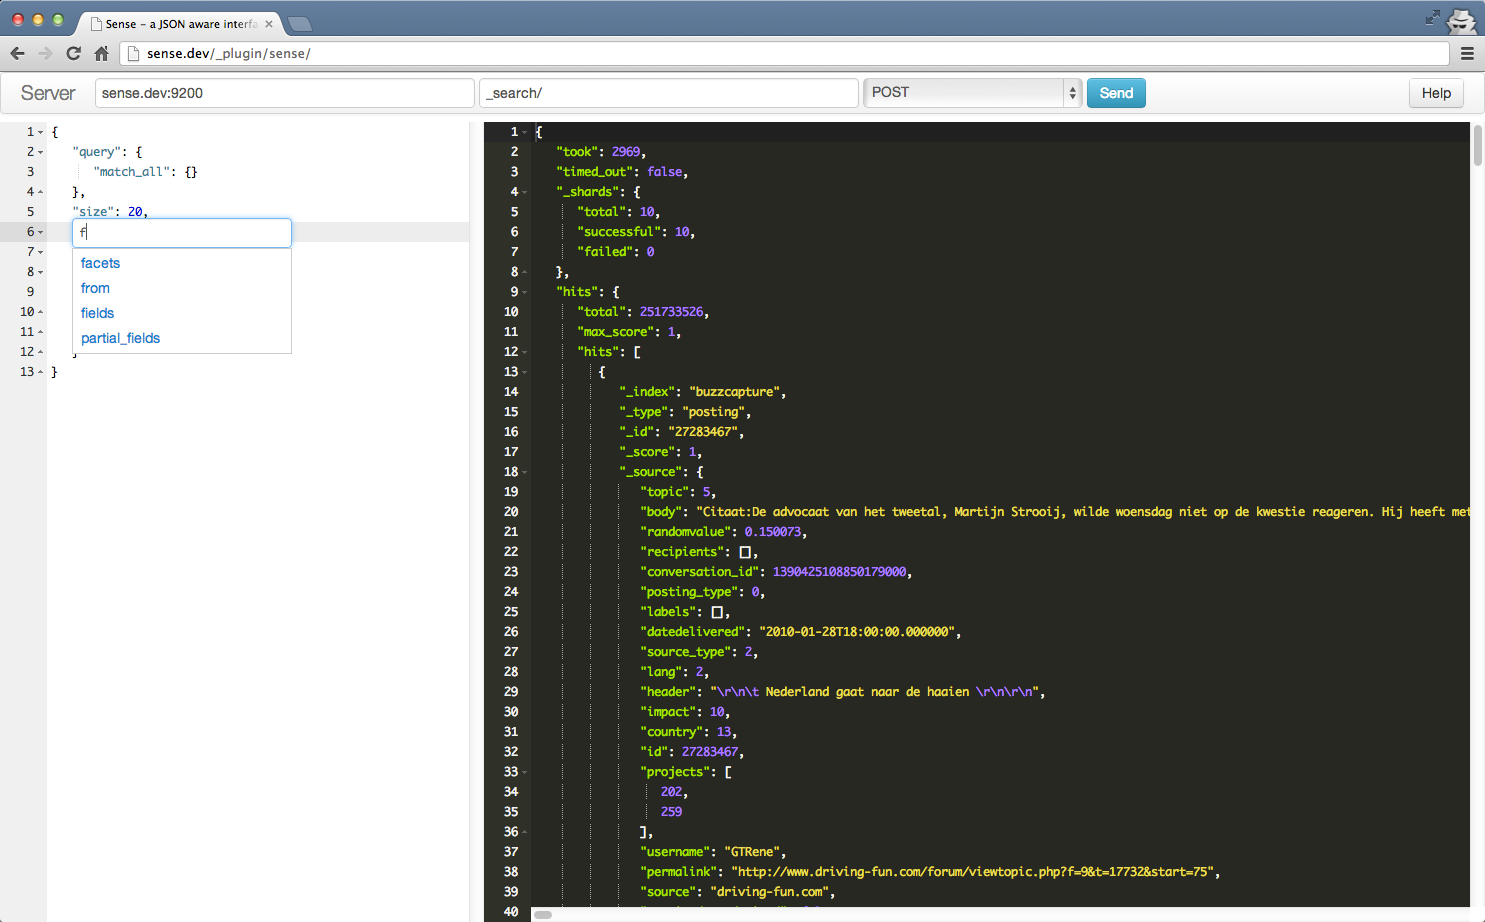
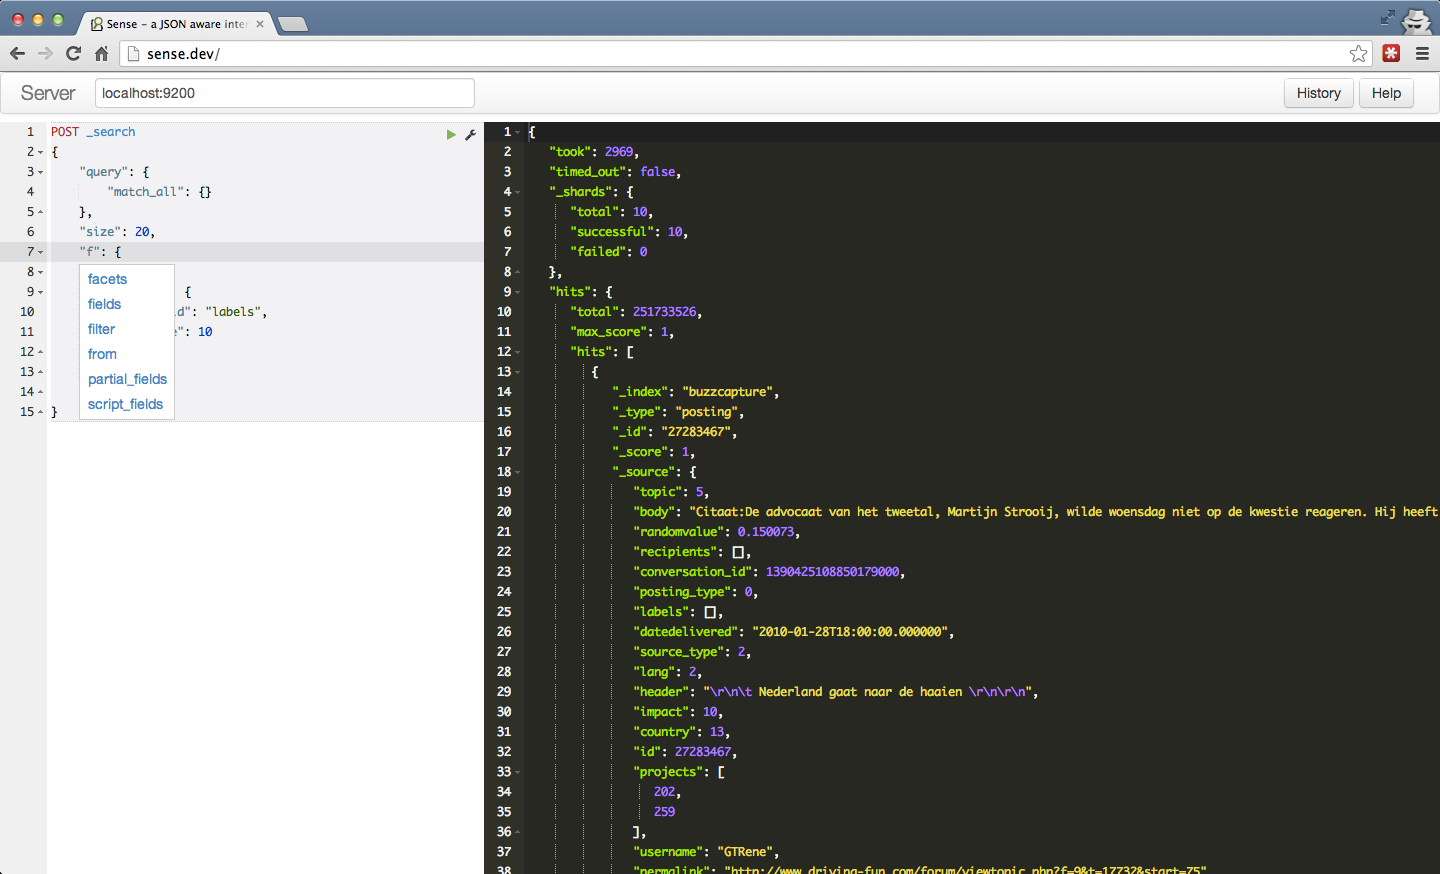
updated documentation

Changed region(s): [[0.0, 0.0, 1.0, 1.0]]

diff --git a/index.html b/index.html
@@ -74,7 +74,7 @@
             <dt>Ctrl/Cmd + Up/Down</dt>
             <dd>Jump to the previous/next request start or end.</dd>
             <dt>Ctrl/Cmd + Alt + L</dt>
-            <dd>Collapse/expande current scope.</dd>
+            <dd>Collapse/expand current scope.</dd>
         </dl>
         <dl class="dl-horizontal">
             <dt></dt>

diff --git a/README.md b/README.md
@@ -22,20 +22,41 @@ Screenshots
 -----------
 
 ### Syntax highlighting
-![Syntax highlighting](https://github.com/bleskes/sense/raw/master/docs/syntaxhighlighting.png)
+![Syntax highlighting](https://github.com/bleskes/sense/raw/multi_req/docs/syntaxhighlighting.png)
 
 ### Auto complete
-![Auto complete](https://github.com/bleskes/sense/raw/master/docs/autocomplete.png)
+![Auto complete](https://github.com/bleskes/sense/raw/multi_req/docs/autocomplete.png)
 
 ### Broken JSON detection
-![Broken JSON](https://github.com/bleskes/sense/raw/master/docs/broken.png)
+![Broken JSON](https://github.com/bleskes/sense/raw/multi_req/docs/broken.png)
 
-## History
-![History](https://github.com/bleskes/sense/raw/master/docs/history.png)
+### History
+![History](https://github.com/bleskes/sense/raw/multi_req/docs/history.png)
+
+Other goodies
+-----
+
+- Keep multiple requests at hand
+  ![Multiple requests](https://github.com/bleskes/sense/raw/multi_req/docs/requestformat.png)
+- Copy and paste requests as cURL
+- Resizable panels
+- Friendly keyboard shortcuts (for a complete list, click the help button):
+    * `Ctrl/Cmd + I`         - Auto indent current request.
+    * `Ctrl + Space`         - Open Auto complete (even if not typing).
+    * `Ctrl/Cmd + Enter`     - Submit request.
+    * `Ctrl/Cmd + Shift + C` - Copy request in cURL format
+    * `Ctrl/Cmd + Up/Down`   - Jump to the previous/next request start or end.
+    * `Ctrl/Cmd + Alt + L`   - Collapse/expand current scope.
 
 Changes
 -------
 
+### v0.8
+- Major rewrite to support multiple requests in the editor.
+- You can now move the split between editor & output.
+- New shortcuts to navigate through requests quickly (see help).
+- New shortcut to collapse and expand current scope (see help).
+- Improved help popup
 
 ### v0.7
 - Increased history size to 500 elements
